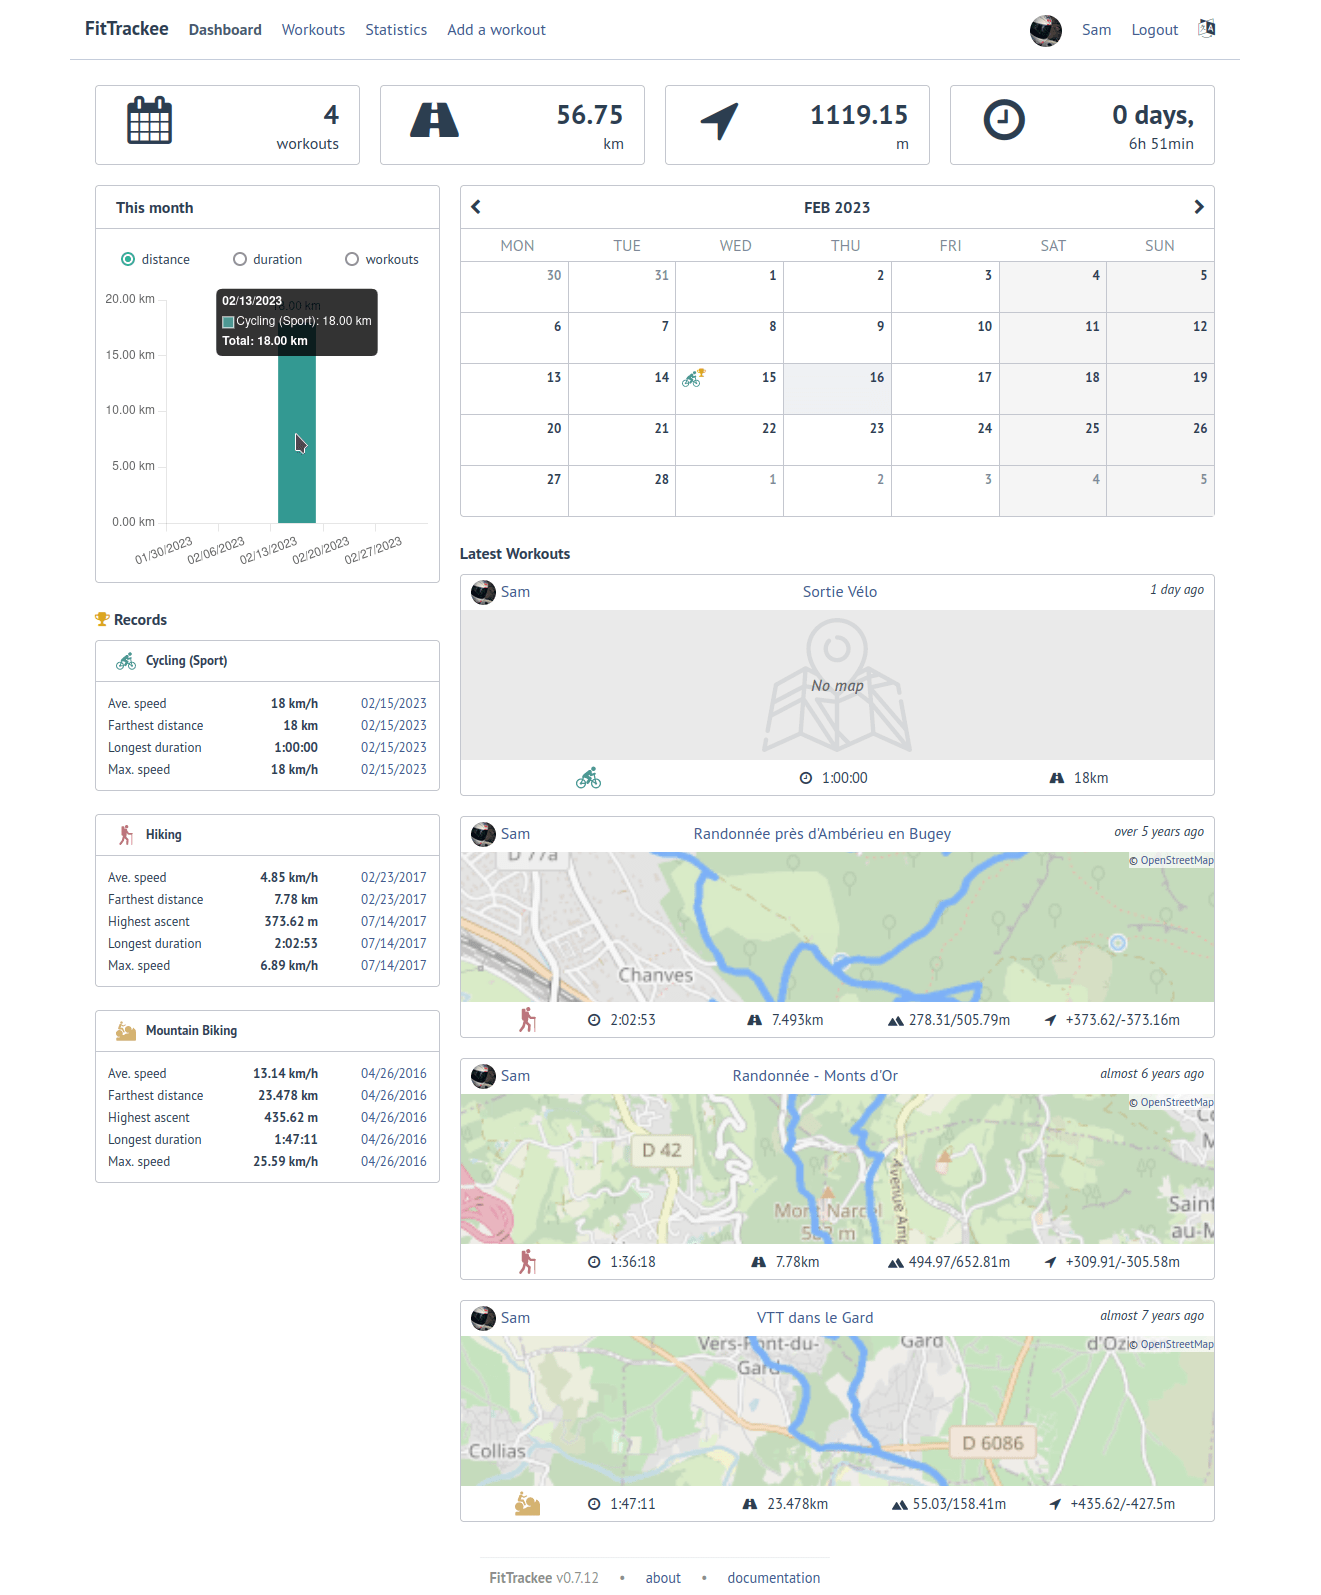
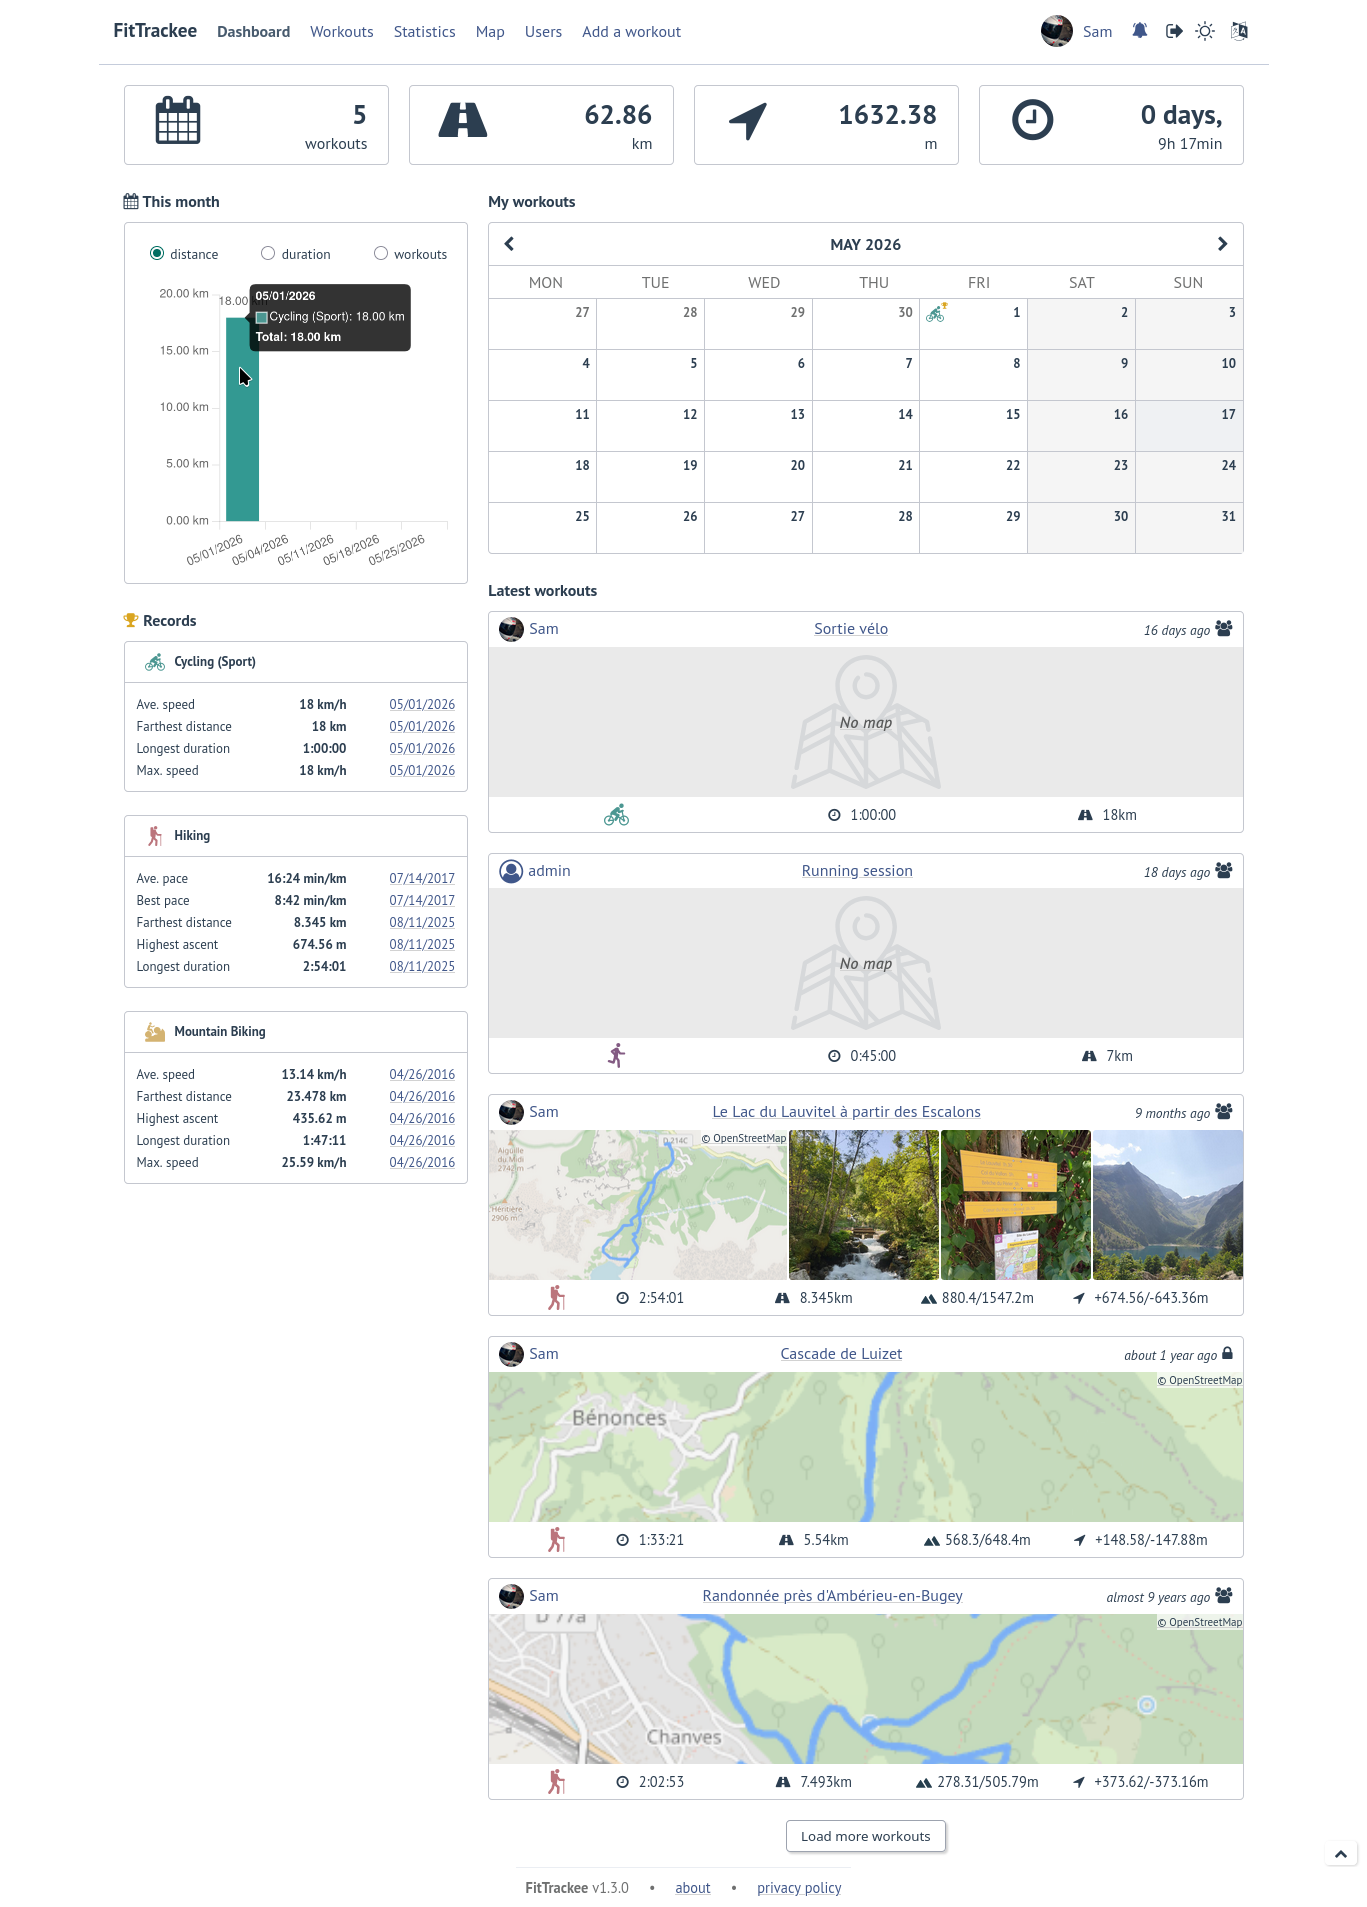
Merge pull request #157 from YunoHost-Apps/1.3.x
1.3.x

Pull request: 1.3.x
## Problem

- *Description of why you made this PR*

## Solution

- *And how do you fix that problem*

## PR Status

- [ ] Code finished and ready to be reviewed/tested
- [ ] The fix/enhancement were manually tested (if applicable)

## Automatic tests

Automatic tests can be triggered on https://ci-apps-dev.yunohost.org/ *after creating the PR*, by commenting "!testme", "!gogogadgetoci" or "By the power of systemd, I invoke The Great App CI to test this Pull Request!". (N.B. : for this to work you need to be a member of the Yunohost-Apps organization)

diff --git a/README.md b/README.md
@@ -11,7 +11,7 @@ It shall NOT be edited by hand.
 Self-hosted outdoor activity tracker 🚴
 
 [![🌐 Official app website](https://img.shields.io/badge/Official_app_website-darkgreen?style=for-the-badge)](https://docs.fittrackee.org/)
-[![Version: 1.2.2~ynh2](https://img.shields.io/badge/Version-1.2.2~ynh2-rgb(18,138,11)?style=for-the-badge)](https://ci-apps.yunohost.org/ci/apps/fittrackee/)
+[![Version: 1.3.0~ynh1](https://img.shields.io/badge/Version-1.3.0~ynh1-rgb(18,138,11)?style=for-the-badge)](https://ci-apps.yunohost.org/ci/apps/fittrackee/)
 
 <div align="center">
 <a href="https://apps.yunohost.org/app/fittrackee"><img height="100px" src="https://github.com/YunoHost/yunohost-artwork/raw/refs/heads/main/badges/neopossum-badges/badge_more_info_on_the_appstore.svg"/></a>

diff --git a/doc/ADMIN.md b/doc/ADMIN.md
@@ -1,6 +1,6 @@
 After the installation, you can login with the mail of the chosen user and the password you choose before the installation.
 
-If you have to use the [command line interface (cli)](https://samr1.github.io/FitTrackee/cli.html), you can go like this:
+If you have to use the [command line interface (cli)](https://docs.fittrackee.org/en/cli.html), you can go like this:
 
 ```
 yunohost app shell __APP__

diff --git a/doc/ADMIN_fr.md b/doc/ADMIN_fr.md
@@ -1,6 +1,6 @@
 Après l’installation, vous pouvez vous connecter avec l’adresse électronique de l’utilisateur créé et le mot de passe que vous avez choisi avant l’installation.
 
-Si vous avez besoin d’utiliser la [ligne de commande](https://samr1.github.io/FitTrackee/cli.html) vous pouvez suivre ces étapes :
+Si vous avez besoin d’utiliser la [ligne de commande](https://docs.fittrackee.org/fr/cli.html) vous pouvez suivre ces étapes :
 
 ```
 yunohost app shell __APP__